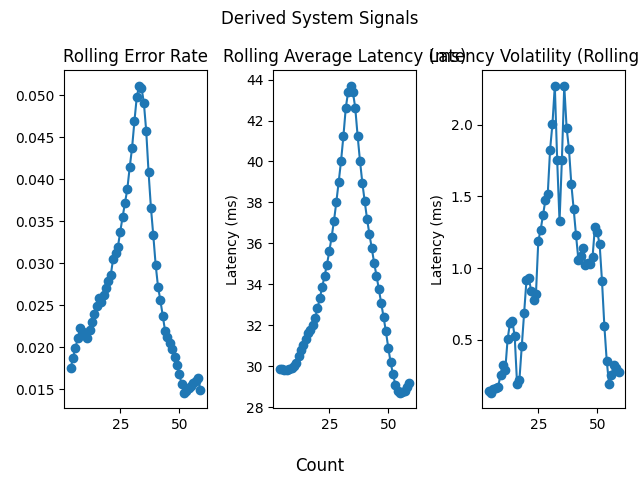
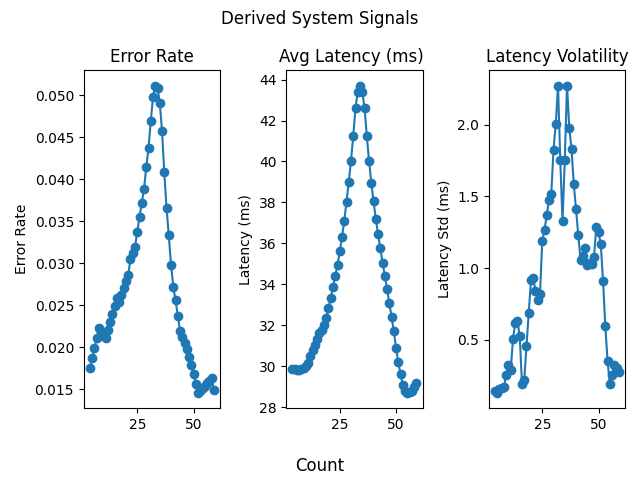
custom project formatting

diff --git a/src/cintel/continuous_intelligence_alex.py b/src/cintel/continuous_intelligence_alex.py
@@ -112,13 +112,14 @@ def main() -> None:
     # plot the signals
     fig2, ax2 = plt.subplots(1, 3, tight_layout=True)
     ax2[0].plot(df["error_rate_roll_mean"], marker='o')
-    ax2[0].set_title("Rolling Error Rate")
+    ax2[0].set_title("Error Rate")
+    ax2[0].set_ylabel("Error Rate")
     ax2[1].plot(df["latency_roll_mean"], marker='o')
-    ax2[1].set_title("Rolling Average Latency (ms)")
+    ax2[1].set_title("Avg Latency (ms) ")
     ax2[1].set_ylabel("Latency (ms)")
     ax2[2].plot(df["latency_roll_std"], marker='o')
-    ax2[2].set_title("Latency Volatility (Rolling Std)")
-    ax2[2].set_ylabel("Latency (ms)")
+    ax2[2].set_title("Latency Volatility")
+    ax2[2].set_ylabel("Latency Std (ms)")
     fig2.suptitle("Derived System Signals")
     fig2.supxlabel("Count")
     plt.savefig(ARTIFACTS_DIR / "signals.png")

diff --git a/docs/index.md b/docs/index.md
@@ -12,7 +12,10 @@ I used the provided dataset system_metrics which contains number of requests, nu
 The signals of interest that were created were averages and z scores for Error rate and Latency.
 The system was summarized with the averages of each incoming signal. Then expanded to include average error rate, average latency, and average Z scores for error rate and latency.
 
-![Raw Data]((/artifacts/raw_metrics.png)) ![Signals](/artifacts/signals.png)
+![Raw Data]((/artifacts/raw_metrics.png))
+
+For the plot the signals were smoothed by a rolling average with a window of 5
+![Signals](/artifacts/signals.png)
 
 ### Experiments
 I began by plotting the raw data and the signals after creation. I experimented with adding more signals such as rolling averages and rolling standard deviation. Ultimately I did not use rolling signals to adjust system state summary. It didn't seem relevant to determining the overall system status. I added the field degradation reason to the system summary.

diff --git a/README.md b/README.md
@@ -64,6 +64,7 @@ so that monitoring signals and anomaly detection
 produce visible results.
 
 ![Raw Metrics](/artifacts/raw_metrics.png)
+![Signals](/artifacts/signals.png)
 
 ## Working Files
 
